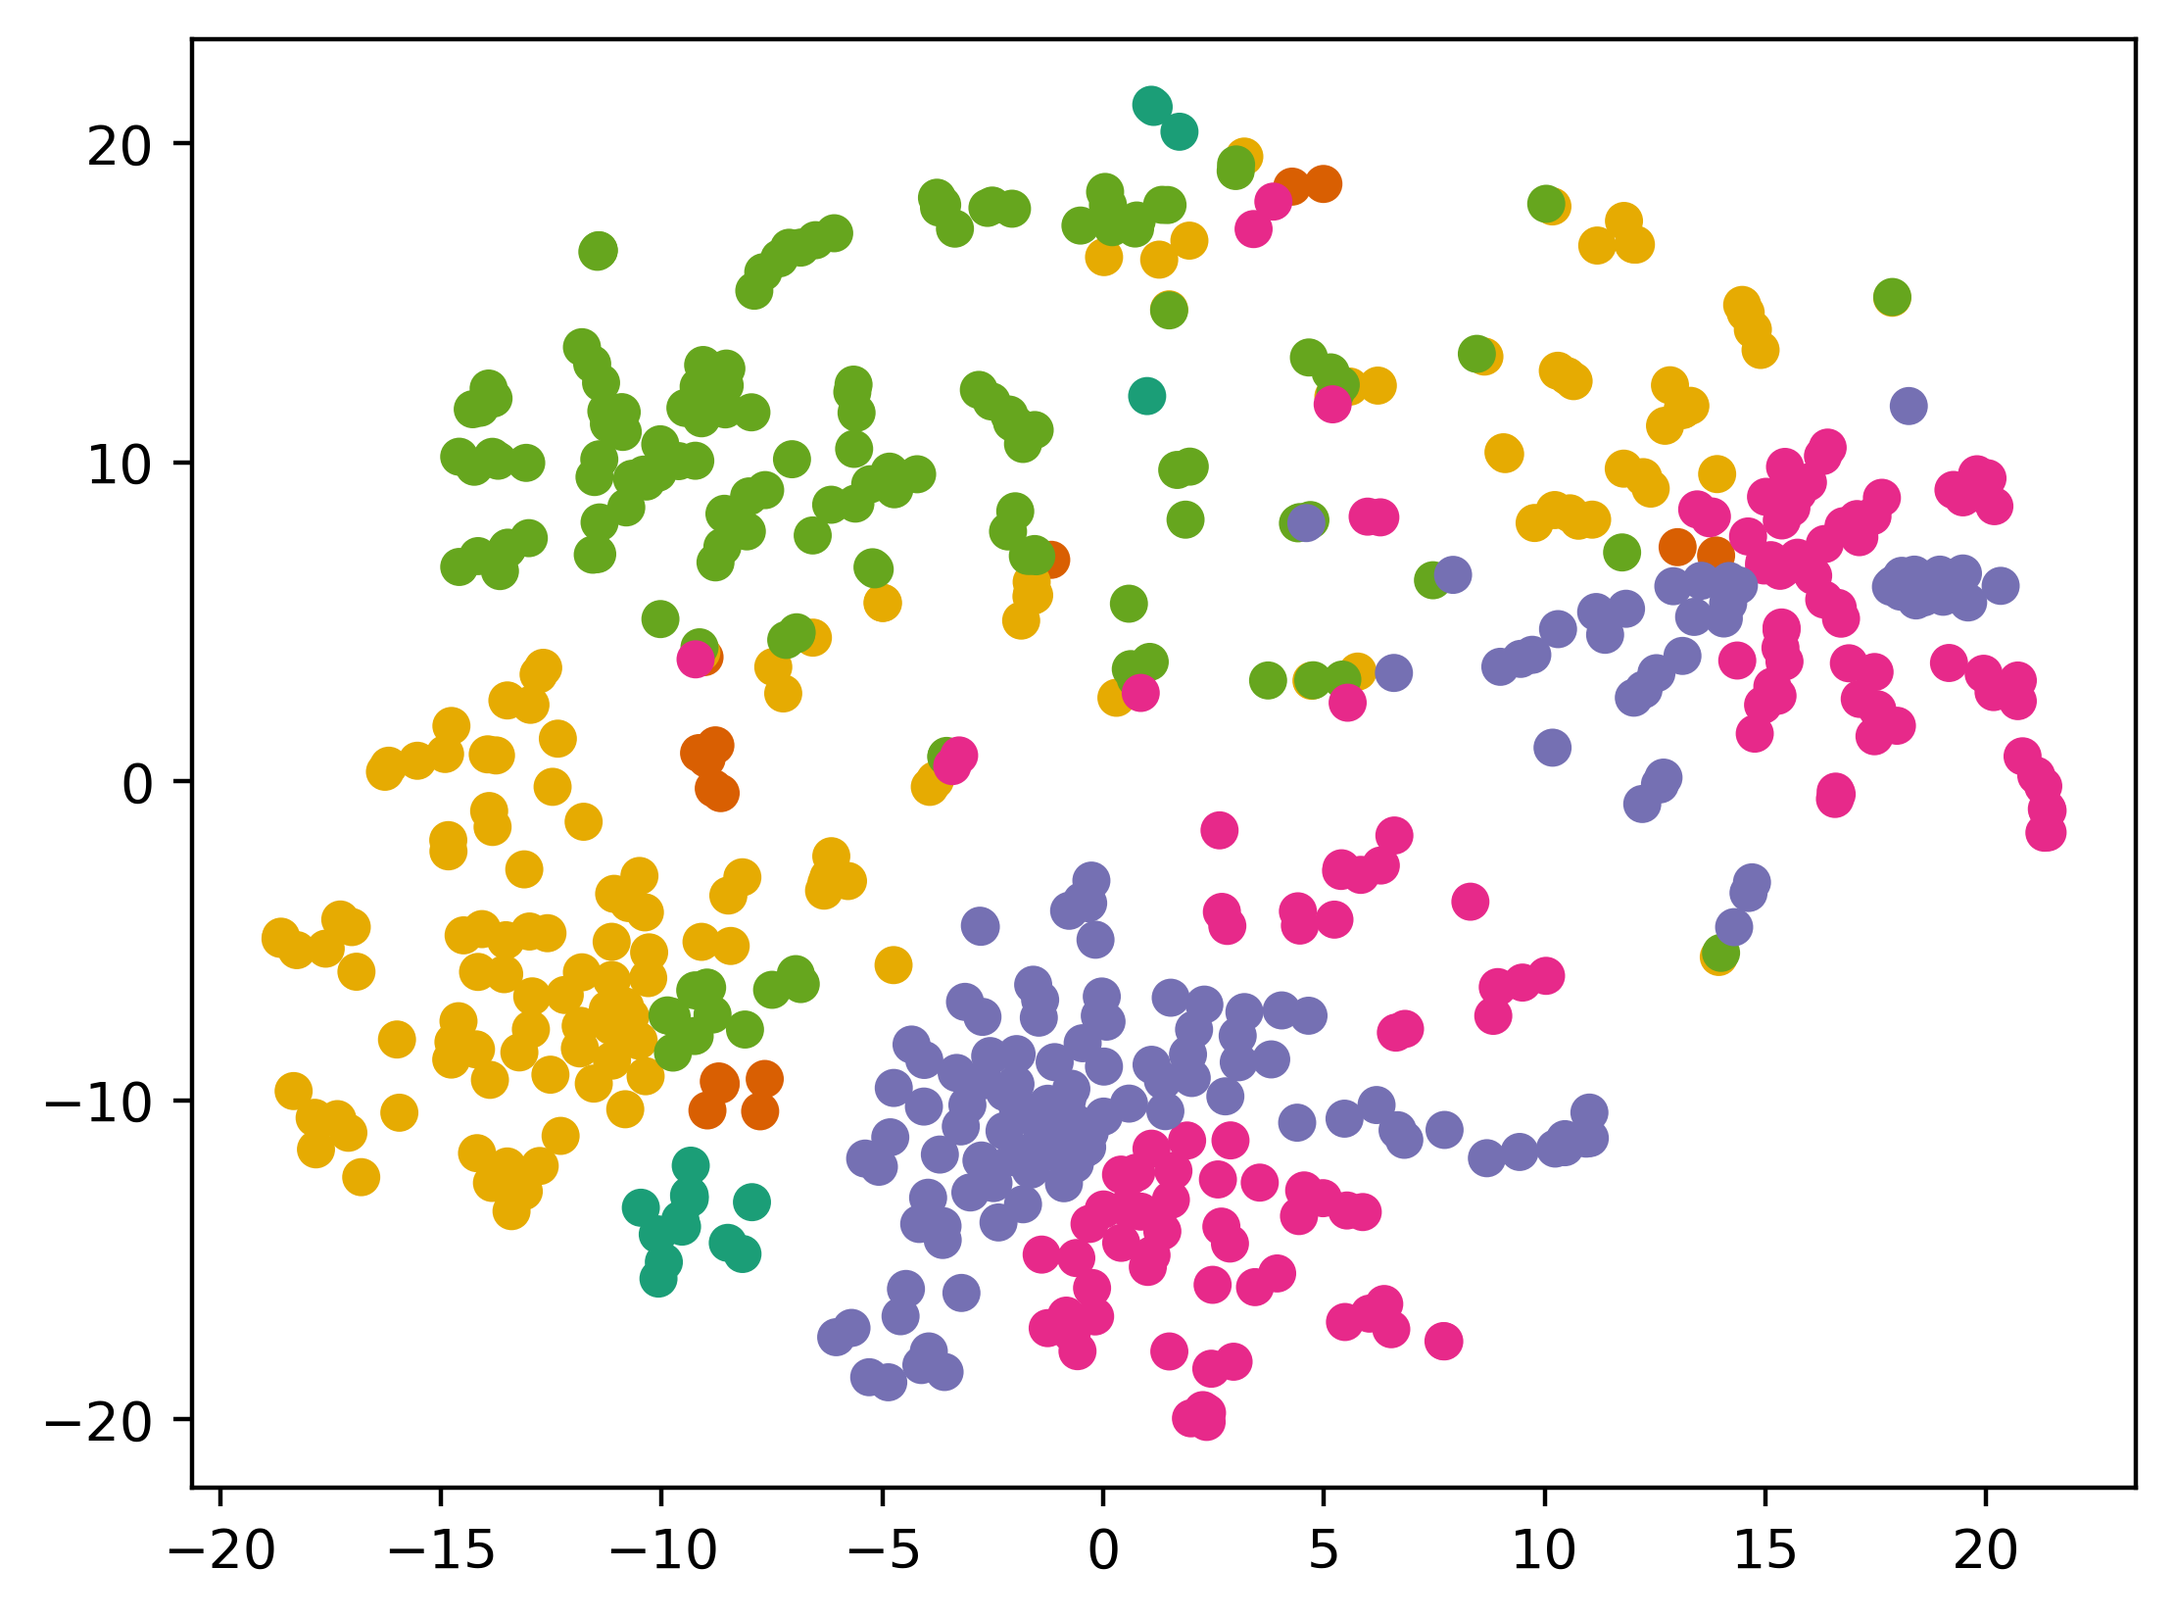
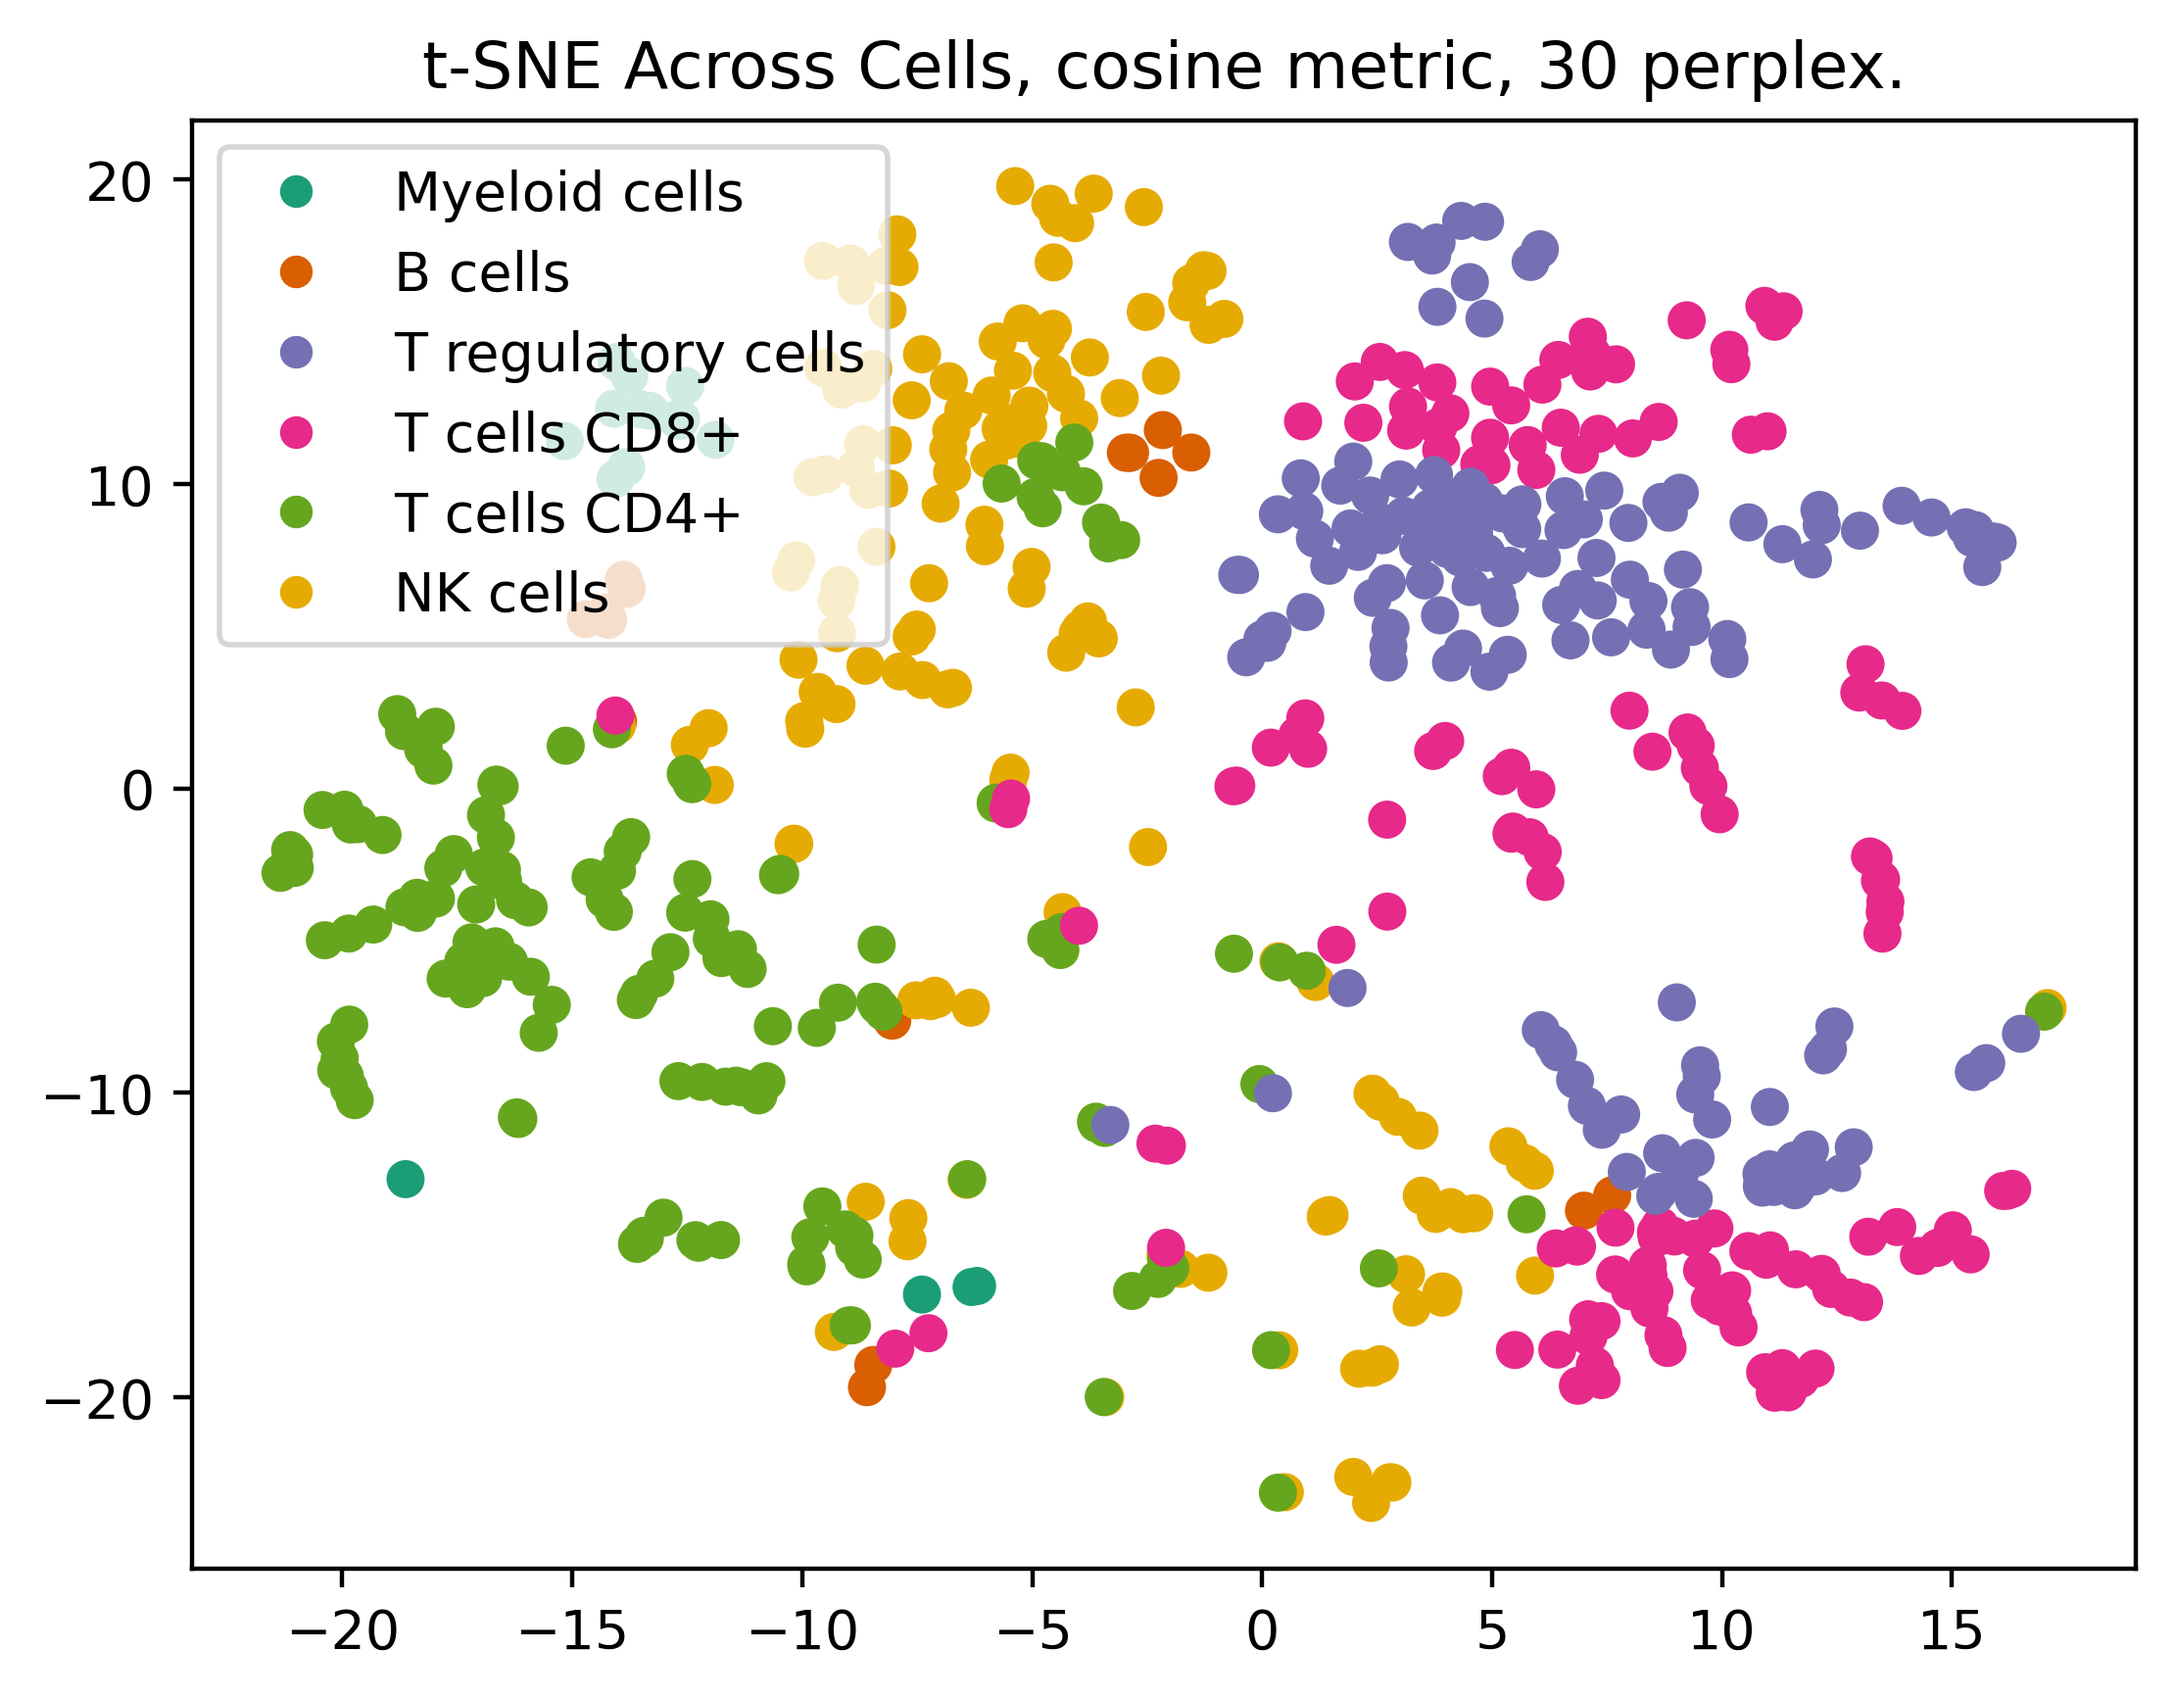
more visualizations

diff --git a/data.py b/data.py
@@ -6,9 +6,11 @@ from torch_geometric.data import Data, Batch
 import torch
 from torch.utils.data import Dataset, DataLoader
 import matplotlib.pyplot as plt
+from matplotlib.lines import Line2D
 import seaborn as sns
 import umap
 from sklearn.manifold import TSNE
+from sklearn.decomposition import KernelPCA
 
 MAX_TOKENS = 121
 PAD_TOKEN = 33
@@ -339,6 +341,43 @@ def gene_correlation_heatmaps(BASE_PATH="data/de_train.parquet"):
     plt.show()
 
 
+def get_cell_data(BASE_PATH="data/de_train.parquet"):
+    ABSOLUTE_PATH = os.path.join(os.path.dirname(__file__), BASE_PATH)
+    data = pd.read_parquet(ABSOLUTE_PATH, engine="fastparquet")
+    data = data.sort_values(by="cell_type").reset_index(drop=True)
+    data["index1"] = data.index
+    # gene expression data for each cell
+    single_cell_vectors = data.iloc[:, 5:18216].to_numpy()
+    return data, single_cell_vectors
+
+
+def get_handles(palette=sns.color_palette("Dark2")):
+    labels = ["Myeloid cells", "B cells", "T regulatory cells", "T cells CD8+", "T cells CD4+", "NK cells"]
+    handles = [Line2D([], [], color=palette[idx], marker='.', linestyle='None',
+                markersize=10, label=label) for idx, label in enumerate(labels)]
+    return handles
+
+
+def plot_cell_types_colored(data, embedding, palette=sns.color_palette("Dark2")):
+    plt.scatter(
+        embedding[:, 0],
+        embedding[:, 1],
+        c=[
+            sns.color_palette("Dark2")[int(x)]
+            for x in data.cell_type.map(
+                {
+                    "NK cells": 5,
+                    "T cells CD4+": 4,
+                    "T cells CD8+": 3,
+                    "T regulatory cells": 2,
+                    "B cells": 1,
+                    "Myeloid cells": 0,
+                }
+            )
+        ],
+    )
+
+
 def arrows(data, embedding):
     # iterating through b cells
     bcell_rows = data.loc[data["cell_type"] == "B cells"]
@@ -368,73 +407,51 @@ def arrows(data, embedding):
 
 
 def umap_cells(metric, BASE_PATH="data/de_train.parquet", arrows=False):
-    ABSOLUTE_PATH = os.path.join(os.path.dirname(__file__), BASE_PATH)
-    data = pd.read_parquet(ABSOLUTE_PATH, engine="fastparquet")
-    data = data.sort_values(by="cell_type").reset_index(drop=True)
-    data["index1"] = data.index
-    # gene expression data for each cell
-    single_cell_vectors = data.iloc[:, 5:18216].to_numpy()
+    data, single_cell_vectors = get_cell_data()
     embedding = umap.UMAP(n_components=2, metric=metric).fit_transform(single_cell_vectors)
     # plot UMAP embedding colored by cell type
-    plt.scatter(
-        embedding[:, 0],
-        embedding[:, 1],
-        c=[
-            sns.color_palette("Dark2")[int(x)]
-            for x in data.cell_type.map(
-                {
-                    "NK cells": 5,
-                    "T cells CD4+": 4,
-                    "T cells CD8+": 3,
-                    "T regulatory cells": 2,
-                    "B cells": 1,
-                    "Myeloid cells": 0,
-                }
-            )
-        ],
-    )
+    plot_cell_types_colored(data, embedding)
 
     # draw arrows pointing to b cells and myeloid cells from other cell types
     if arrows:
         arrows(data, embedding)
 
-    #plt.savefig(f"visuals/cells_umap_{metric}.png", bbox_inches="tight", dpi=400)
-    plt.show()
+    plt.legend(handles=get_handles())
+    plt.title(f"UMAP Across Cells, {metric} metric")
+    plt.savefig(f"visuals/cells_umap_{metric}.png", bbox_inches="tight", dpi=400)
+    #plt.show()
 
 
 def tsne_cells(metric, perplexity=30, BASE_PATH="data/de_train.parquet", arrows=False):
-    ABSOLUTE_PATH = os.path.join(os.path.dirname(__file__), BASE_PATH)
-    data = pd.read_parquet(ABSOLUTE_PATH, engine="fastparquet")
-    data = data.sort_values(by="cell_type").reset_index(drop=True)
-    data["index1"] = data.index
-    # gene expression data for each cell
-    single_cell_vectors = data.iloc[:, 5:18216].to_numpy()
+    data, single_cell_vectors = get_cell_data()
     embedding = TSNE(n_components=2, metric=metric, perplexity=perplexity).fit_transform(single_cell_vectors)
     # plot TSNE embedding colored by cell type
-    plt.scatter(
-        embedding[:, 0],
-        embedding[:, 1],
-        c=[
-            sns.color_palette("Dark2")[int(x)]
-            for x in data.cell_type.map(
-                {
-                    "NK cells": 5,
-                    "T cells CD4+": 4,
-                    "T cells CD8+": 3,
-                    "T regulatory cells": 2,
-                    "B cells": 1,
-                    "Myeloid cells": 0,
-                }
-            )
-        ],
-    )
+    plot_cell_types_colored(data, embedding)
 
     # draw arrows pointing to b cells and myeloid cells from other cell types
     if arrows:
         arrows(data, embedding)
 
-    # plt.savefig(f"visuals/cells_tsne_{metric}.png", bbox_inches="tight", dpi=400)
-    plt.show()
+    plt.legend(handles=get_handles())
+    plt.title(f"t-SNE Across Cells, {metric} metric, {perplexity} perplex.")
+    plt.savefig(f"visuals/cells_tsne_{metric}.png", bbox_inches="tight", dpi=400)
+    #plt.show()
+
+
+def kernel_pca_cells(kernel="rbf" ,BASE_PATH="data/de_train.parquet", arrows=False):
+    data, single_cell_vectors = get_cell_data()
+    embedding = KernelPCA(n_components=2, kernel=kernel).fit_transform(single_cell_vectors)
+    # plot kernel pca embedding colored by cell type
+    plot_cell_types_colored(data, embedding)
+
+    # draw arrows pointing to b cells and myeloid cells from other cell types
+    if arrows:
+        arrows(data, embedding)
+
+    plt.legend(handles=get_handles())
+    plt.title(f"{kernel} PCA Across Cells")
+    plt.savefig(f"visuals/cells_{kernel}_pca.png", bbox_inches="tight", dpi=400)
+    #plt.show() 
 
 
 if __name__ == "__main__":
@@ -473,7 +490,7 @@ if __name__ == "__main__":
     UMAP across cells, cell types colored
     Cosine and correlation metrics seem to work better
     """
-    # umap_cells(metric="correlation")
+    # umap_cells(metric="cosine")
 
 
     """
@@ -481,3 +498,9 @@ if __name__ == "__main__":
     Cosine metric seem to work better
     """
     # tsne_cells(metric="cosine", perplexity=30)
+    
+
+    """
+    Kernel PCA across cells, cell types colored
+    """
+    # kernel_pca_cells(kernel="rbf")
